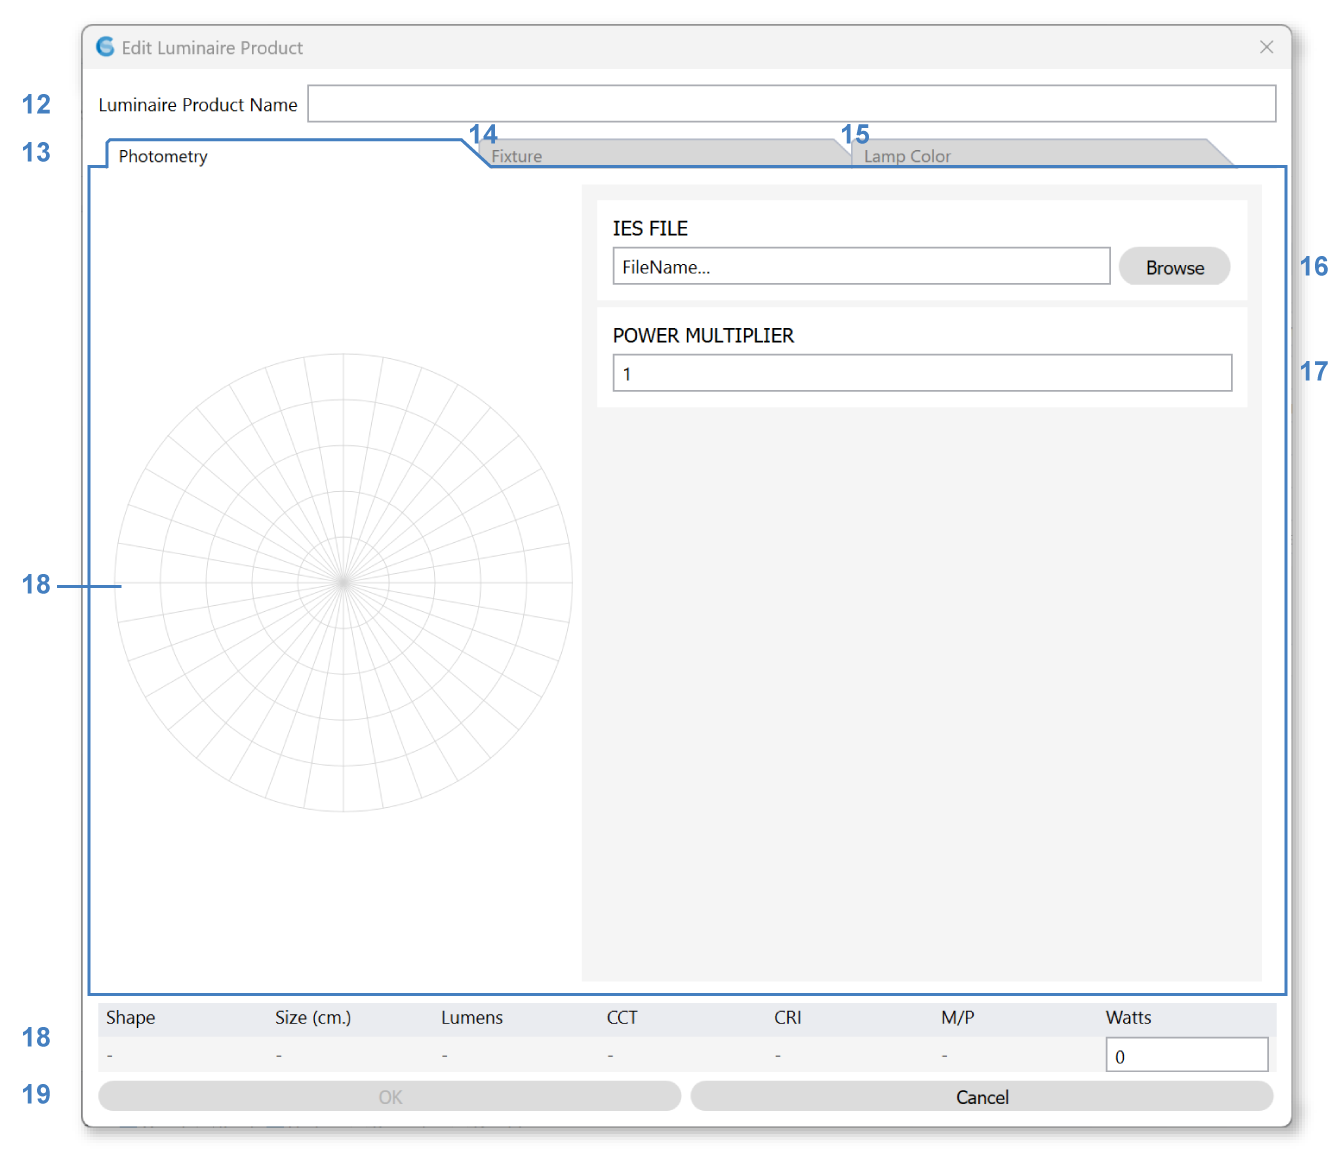
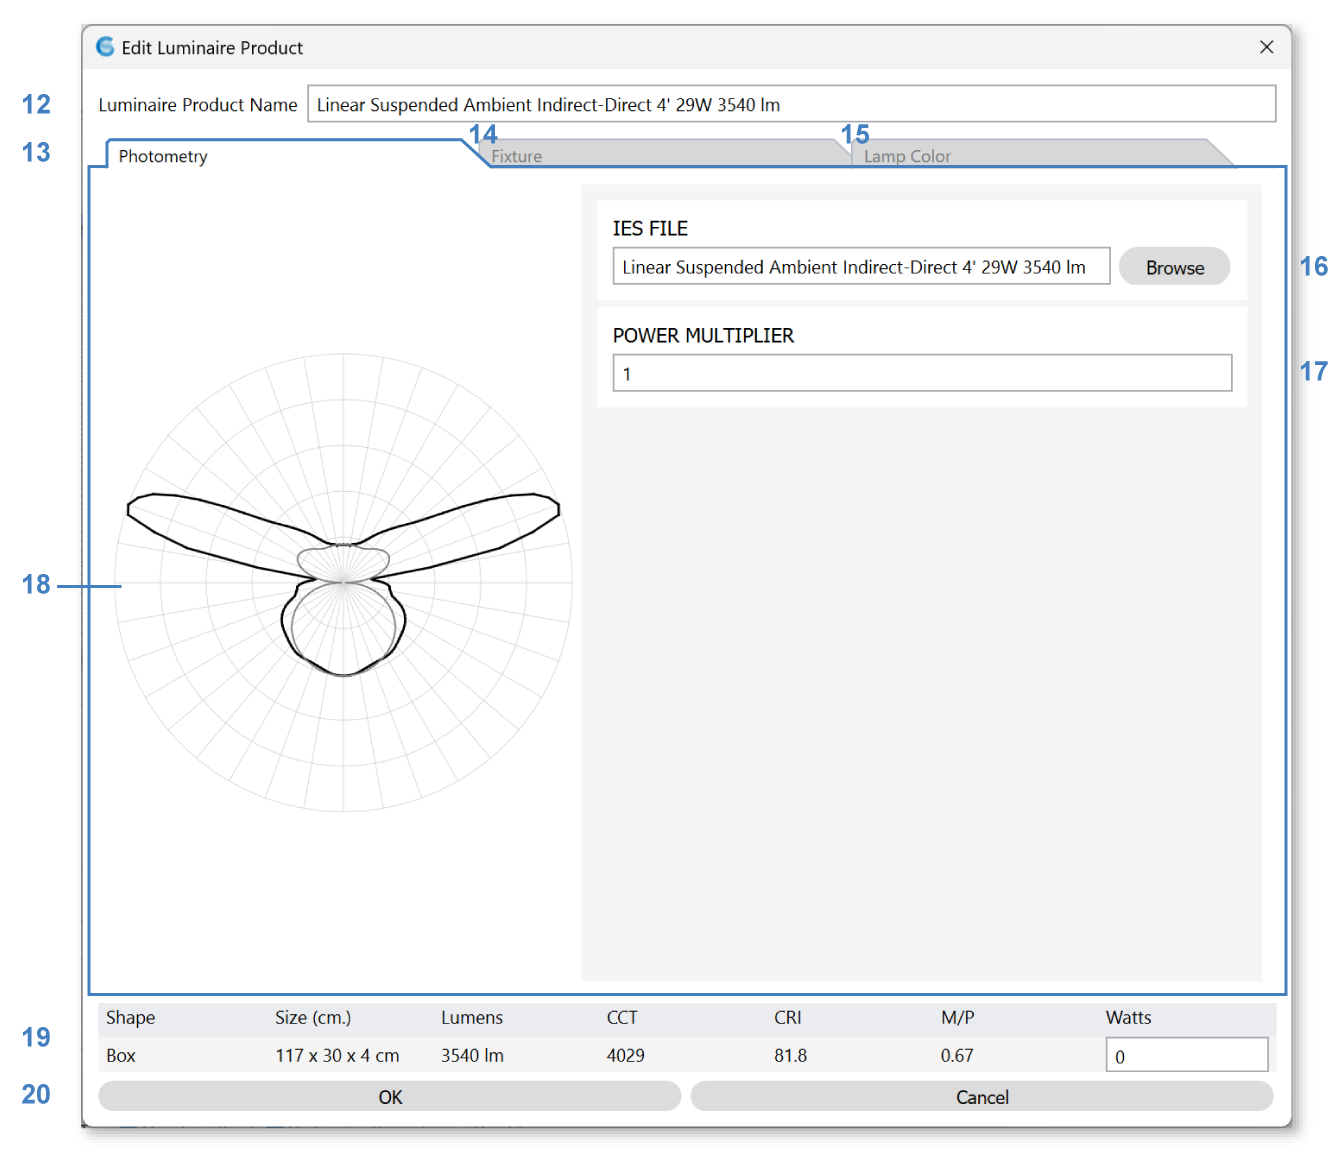
Luminaire page edits

diff --git a/conf.py b/conf.py
@@ -56,7 +56,7 @@ numfig = True
 
 # General information about the project.
 project = u'ClimateStudio'
-copyright = u'2020, Solemma LLC'
+copyright = u'2024, Solemma LLC'
 author = u'Solemma LLC'
 
 # The version info for the project you're documenting, acts as replacement for

diff --git a/docs/luminaires.rst b/docs/luminaires.rst
@@ -10,112 +10,111 @@ The Luminaires panel is used to select real-world luminaire products and place t
    :width: 900px
    :align: center
    
+|
+
 A dialog will appear, allowing the user to browse through a series of Luminaire products in ClimateStudio's library. 
 
 .. figure:: images/luminaire_LuminaireProductFromLib.png
    :width: 900px
    :align: center
 
-Lighting Zone
-<<<<<<<<<<<<<<<<<<<<<<<<<<<<<<<
+|
 
-Luminaires can be assigned to a lighting zone (**7**). Lighting zones are collections of luminaires operated using the same control, 
-such as an on/off or dimming switch. In ClimateStudio renderings, lighting zones are eligible for post-process brightness and color adjustment, as described `here`_. 
+Set Lighting Zone
+----------------------------------------------------
 
-To assign a luminaire to a lighting zone, enter a zone name or choose an existing zone using the combo box. To create a new zone, simply type in a new lighting zone name. 
-To make the zone eligible for post-process adjustments, check the Post-Process box (**30**) in the Luminaires Table (see last section).
+Luminaires can be assigned to a lighting zone using the dropdown (**2**) at the top of the dialog. Lighting zones are collections of luminaires operated using the same control, such as an on/off or dimming switch. In ClimateStudio renderings, lighting zones are eligible for post-process brightness and color adjustment, as described `here`_. 
+
+To assign a luminaire to a lighting zone, use the dropdown to select an existing zone, or use the dropdown's "New..." item to create a new zone. To make the zone eligible for post-process adjustments, check the Post-Process box (**30**) in the *Luminaires Table* (see `last section`_).
+
+.. _last section: luminaires.html#luminaires-table
 
 .. _here: radianceRender.html#post-processing-of-lighting-zones
 
-Choose a Luminaire Product
+Choose Luminaire Product
 ----------------------------------------------
 
-The photometric web, color spectrum, and fixture information are displayed at the top (**3**). 
+To choose a luminaire, select a row in the product table (**10**). To narrow your search, type keywords in the search box (**4**), or use the library filter (**5**) to isolate *Default* or *User*-defined products. User-defined products may be created using the New button (**9**), or by copying (**8**) an existing product and then using the Edit button (**7**). Only user-defined products may be deleted (**6**). 
 
-Type in keywords in the **search box (4)** to filter the **lumunaire products table (10)** and click on any product in the table to select it. 
+The properties of the selected product, including its luminous power, photometric distribution, color spectrum, and fixture dimensions are displayed above the table (**3**). 
 
-Switch between default and user libraries with the **library dropdown (5)**. 
+Once luminaire selection is complete, click the *Place in Rhino Model* button (**11**) to place an instance of the luminaire at a user-specified point. To create additional copies of the luminaire, simply use the *copy* or *array* commands in Rhino. Copying a luminaire creates multiple instances of the same object (using block instances), allowing the entire set of instances to be edited in concert. Each time you insert a luminaire using the *Place* button, a new block definition is created, which shows up as single row in the *Luminaires Table* (see `below`_).
 
-A selected product can be deleted (**6**), copied (**7**), or edited (**8**). Create a new luminaire product by clicking on the plus button (**9**). 
+.. _below: luminaires.html#luminaires-table
 
-.. The luminous output is the total, spherically-integrated luminous flux emitted by the luminaire according to the IES file's photometric distribution. This quantity should not be confused with the product's rated lumen value, which may (or may not) be listed in the IES file header. The total flux accounts for interreflection losses within the fixture, and is a more reliable indicator of measured and simulated behavior than rated lumen values (when they exist).
-
-.. The maximum intensity is the luminaire's peak candela value. Both this field and the total luminous output scale with the power multiplier.
-
-Once luminaire selection is complete, click the *Place in Rhino Model* button (**11**), 
-which places the luminaire in the Rhino model at a user-specified point.
-To create additional copies of the luminaire, simply use the *copy* or *array* commands in Rhino. 
-Copying luminaires creates multiple instances of the same object (using block instances), 
-allowing the entire set of instances to be edited in concert. 
-
-Edit or Create a Luminaire Product
+Edit or Create Luminaire Product
 ----------------------------------------------------
-The luminaire product editor dialog appears,  allowing the user to select an IES file as the **photometry (13)**, configure the light **fixture (14)**, and select the **lamp color (15)**. 
+Editing or creating a luminaire (using buttons **7** or **9**) opens the luminaire product editor. This dialog lets you specify the product's photometry (**13**), fixture shape (**14**), and lamp color (**15**). 
 
 .. figure:: images/luminaire_NewLuminaire.png
    :width: 900px
    :align: center
 
+|
 
-**Select a IES file (16)** in the **photometry (13)** tab to start creating a new luminaire product. 
-This will populate the **product name (12)** with the ies file name and display the **photometric web (18)**, 
-populate the **fixture (14)** with the shape and dimensions defined in the IES file, 
-and the **lamp color (15)** tab with a default spectrum. 
+Photometry
+----------------------------------------------------
+The product's luminous behavior is set by uploading an IES file (**16**). An IES file is a manufacturer-supplied text file that defines a product's luminous intensity distribution on a spherical grid. Most lighting manufacturers provide IES files on their web sites. If you are experiencing difficulty locating an IES file for a specific product, try the `IES library`_. ClimateStudio supports all IES file formats supported by Radiance.
 
-An IES file is a manufacturer-supplied text file that provides the luminous intensity distribution of a lighting product on a spherical grid. 
-This data is usually displayed three-dimensionally as a photometric web or in horizontal and vertical sections. 
-The vertical section (**18**) is displayed with photometric section at 0° in gray and photometric section at 90° in black. 
-Most lighting manufacturers provide IES files of their products on their websites. 
-If you are experiencing difficulty locating an IES file for a specific product, try the `IES library`_. 
+.. _IES library: https://ieslibrary.com/en/home
 
-Change the **power multiplier** to scale the luminous output of the fixture. This may be useful for setting ballast loss factors, etc. 
+Once an IES file is uploaded, the shape of its photometric distribution is drawn in vertical cross section (**18**). Its total luminous power is displayed in the *Lumens* field in table **19**. The total power is the spherically-integrated luminous flux emitted by the luminaire according to the IES file's distribution. This quantity should not be confused with the product's rated lumen value, which may (or may not) be listed in the IES file header. The total flux accounts for interreflection losses within the fixture, and is a more reliable indicator of measured and simulated behavior than the rated lumen value.
 
-Summary of the product are shown on the bottom (**18**). 
+The luminous output may be scaled linearly using the power multiplier field (**17**), which is useful for setting ballast loss factors, etc. 
 
+.. The maximum intensity is the luminaire's peak candela value. Both this field and the total luminous output scale with the power multiplier.
 
-Change the fixture **shape (20)** by clicking on the dropdown and choose between a sphere, a box, or a cylinder fixture, 
-the **dimensions (22)** of the fixture can be changed by typing in the text boxes. 
+Fixture Shape
+----------------------------------------------------
+By default, ClimateStudio generates scene descriptions of product fixtures using the Radiance subprogram *ies2rad*. This program converts the IES file into a primitive shape that Radiance can understand, such as a box or cylinder. At times, the *ies2rad* output is not satisfactory, either because the shape is improperly defined in the IES file (e.g. a bulb with zero diameter), or because the program itself fails to produce the described dimensions (e.g. a tall direct-indirect pendant converted into a shape with zero height). In such cases, you may wish to redefine the fixture by selecting *Custom* from the shape dropdown (**21**), and/or editing its dimensions (**23**). Changing a luminaire's shape and/or dimensions will not alter its far-field photometry, but it will impact near-field effects, as well as the fixture's appearance and surface luminance under direct viewing (as in renderings).
 
 .. figure:: images/luminaire_fixture.png
    :width: 900px
    :align: center
 
-Change the **housing (23)** material of box and cylinder fixtures by selecting from the `materials dialog`_, or it can be turned off completely. 
+|
 
-.. _materials dialog: materials.html
+In addition to editing the fixture's shape, you may specify an opaque housing material (**24**) for its non-luminous faces. Whether a face is luminous (shown with a yellow tint in the shape diagram (**22**)), and whether a fixture *has* non-luminous faces, depends on whether the IES file defines flux in the corresponding directions. One exception is the sides of cylinders. These are always non-luminous, as the underlying engine (Radiance 5.4) cannot compute correct photometry otherwise. 
 
 .. figure:: images/luminaire_fixture_shapes.png
    :width: 900px
    :align: center
 
-Change the **lamp color (15)** by selecting a spectrum from the **spectrum table (25)**, check the **melanopic and photopic actions (24)** in the graph above the table. 
+|
+
+Lamp Color
+----------------------------------------------------
+Most IES files do not include color information. In order to define a color, you must select a spectrum from the *Lamp Color* tab. Its color table (**26**) contains a diverse set of spectral power distributions (SPDs), including CIE standard illuminants as well as product SPDs measured by `Pacific Northwest National Laboratory`_ (PNNL). These spectra are meant to serve as archetypes loosely covering the gamut of extant lighting technologies, including LEDs of various color temperatures. As of ClimateStudio version 2.0, it is not possible to import custom spectra, though this feature is planned in future releases. Color spectra are converted to tristimulus (RGB) values for simulation in Radiance.
+
+.. _Pacific Northwest National Laboratory: https://www.pnnl.gov/
 
 
 .. figure:: images/luminaire_spectrum.png
    :width: 900px
    :align: center
 
-.. _IES library: https://ieslibrary.com/en/home
-
-
+|
 
 Luminaires Table
-<<<<<<<<<<<<<<<<<<<<<<<<<<<<<<<
+----------------------------------------------------
+Once a product is placed in the Rhino document, it will appear in the *Luminaires Table*, nested below its lighting zone. Each placement (via the *Add Luminaire* button (**1**)) creates in the active document a new luminaire block definition, which appears as a row in the table. Only luminaire blocks with visible instances appear in the table. The number of visible instances (there may be multiple if you have copied or arrayed them in Rhino) is listed in the *Count* column (**28**). You may edit a luminaire in-place, adjusting colors or swapping out the IES file entirely, using the *Edit* column (**29**) (see `editor`_ documentation above). Edits affect all instances of the selected luminaire block.
+
+.. _editor: luminaires.html#edit-or-create-luminaire-product
 
 .. figure:: images/subPanel_luminairesTable.png
    :width: 900px
    :align: center
 
-The Luminaires Table lists all luminaire objects in the model and controls their display in the viewport. The checkbox in the table's far left column (**26**), along with the visibility of the luminaire blocks in Rhino, 
-determines whether a luminaire is included in renderings and point-in-time illuminance calculations. 
-**Only luminaires that are visible and enabled at the moment a simulation starts are included in the analysis.**
+|
 
-The **hWeb (27)** and **vWeb (28)** toggles control the visibility of the 3d photometric web preview, while the **webScale (29)** column controls its size. 
+The checkbox in the table's far left column (**27**), along with the visibility of the luminaire instances in Rhino, determine whether a luminaire is included in renderings and point-in-time illuminance calculations. **Only luminaires that are visible and enabled at the moment a simulation starts are included in the analysis.**
 
-The **Post-Process** check box (**30**) determines whether a lighting zone is eligible for post-render adjustments, as described `here`_. Please note that all luminaires in a post-processed lighting zone will emit the same (adjustable) color. 
+The hWeb (**31**) and vWeb (**32**) toggles control the visibility of the 3d photometric web preview in the Rhino viewport, while the webScale column (**33**) controls its size. 
+
+The post-process check box (**34**) determines whether a lighting zone is eligible for post-render adjustments, as described `here`_. Please note that all luminaires in a post-processed lighting zone will emit the same (adjustable) color. 
 
 .. _here: radianceRender.html#post-processing-of-lighting-zones
 
-In the scene above, eight instances of an ambient suspended fixture have been assigned to the perimeter zone of the open office space, and another eight to its interior zone. Six instances of a down light, meanwhile, have been placed in the small meeting room. 
+In the scene above, eight instances of an ambient suspended fixture have been assigned to the perimeter zone of the open office space, and another eight to its interior zone. Six instances of a downlight have been placed in the conference room. 
 
 

diff --git a/index.rst b/index.rst
@@ -2,9 +2,9 @@
 
 Welcome to the ClimateStudio User Guide
 ===================================================
-ClimateStudio is an advanced daylighting, electric lighting, and conceptual thermal simulation software developed by `Solemma LLC`_. It supports a series of environmental analysis workflows for buildings and neighborhoods including annual illuminance simulations for LEED v4 daylighting credits, glare and thermal comfort distributions in daylit and artificially lit spaces, as well as annual and seasonal radiation map analysis for urban massing and shading design studies.
+ClimateStudio is an advanced daylighting, electric lighting, and thermal simulation software developed by `Solemma LLC`_. It supports a series of environmental analysis workflows for buildings and neighborhoods including annual illuminance simulations, glare and thermal comfort distributions in daylit and artificially lit spaces, as well as annual and seasonal radiation map analysis for urban massing and shading design studies. The software also offers eligibiltiy checks for daylight and view credits in the LEED, EN 17037, and BREEAM certification systems.
 	
-ClimateStudio is a plugin for the `Rhinoceros (Rhino)`_ 3d modeling software developed and distributed by Robert McNeel & Associates. An installed version of Rhino 6 or 7 with a license or `free evaluation`_ is required to run ClimateStudio.
+ClimateStudio is a plugin for the `Rhinoceros (Rhino)`_ 3d modeling software developed and distributed by Robert McNeel & Associates. An installed version of Rhino 6, 7, or 8 with a valid license is required to run ClimateStudio.
 	
 The Getting Started section provides a quick overview of the ClimateStudio interface. The following sections explore the individual features and analysis workflows.
  
